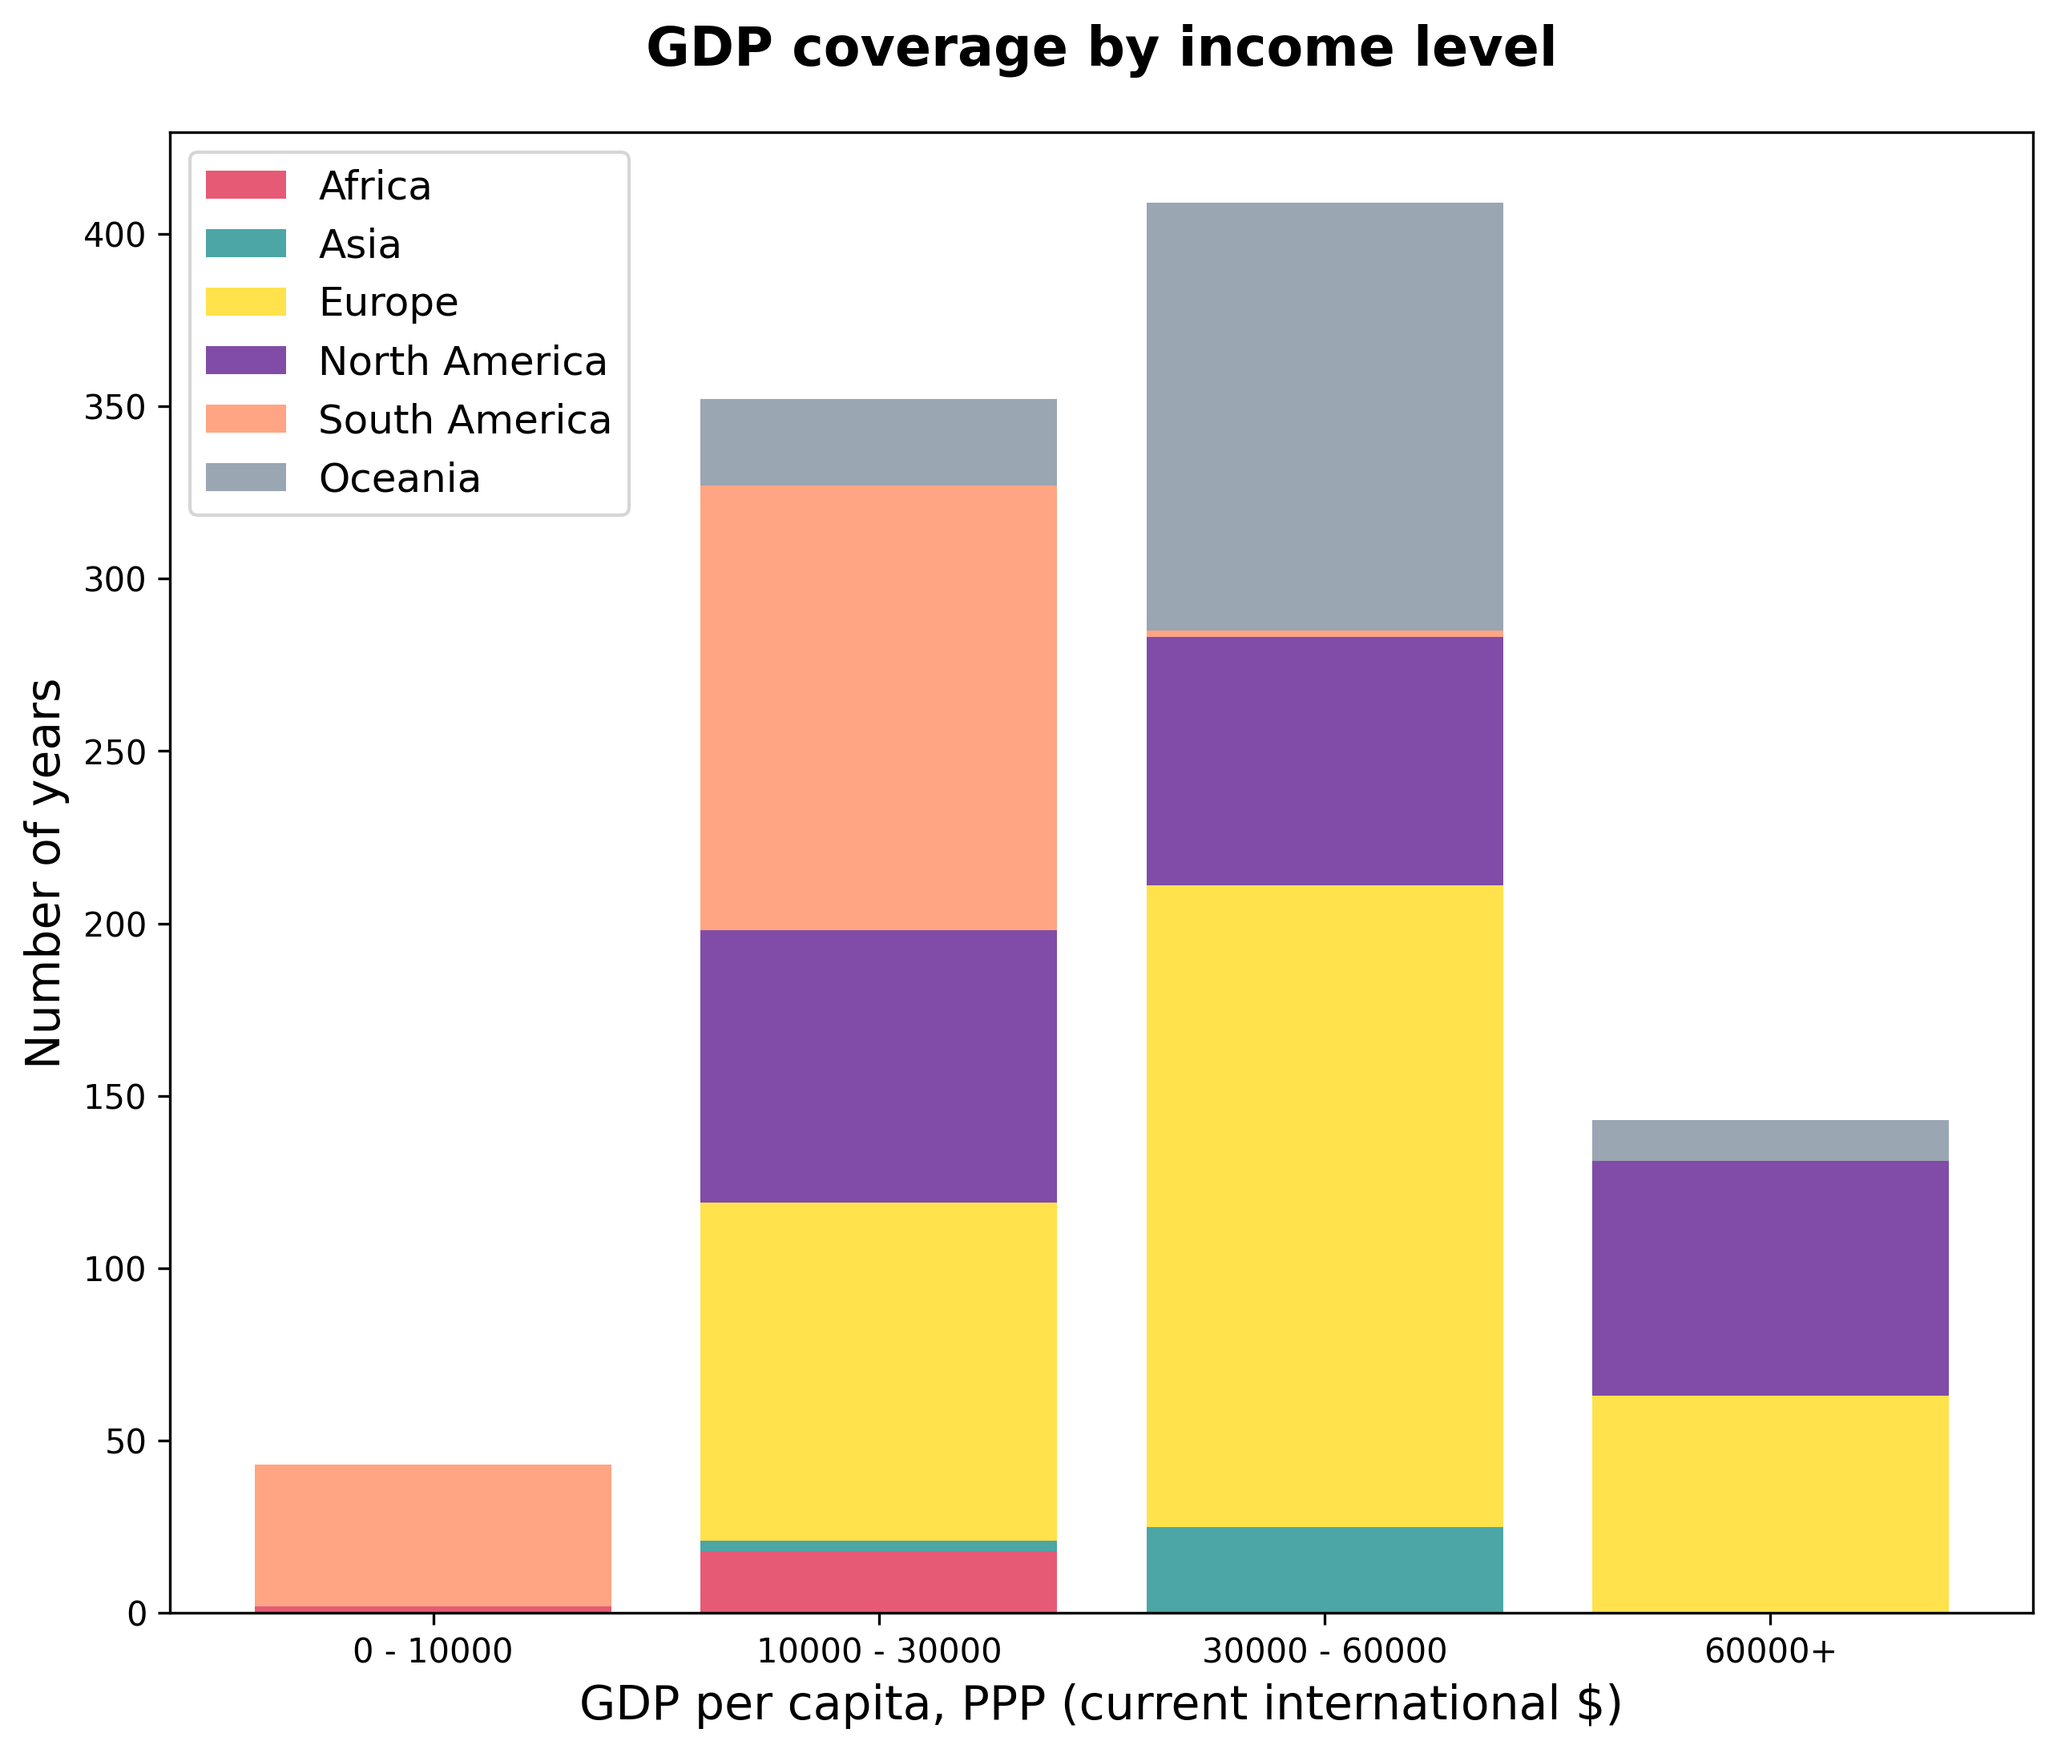
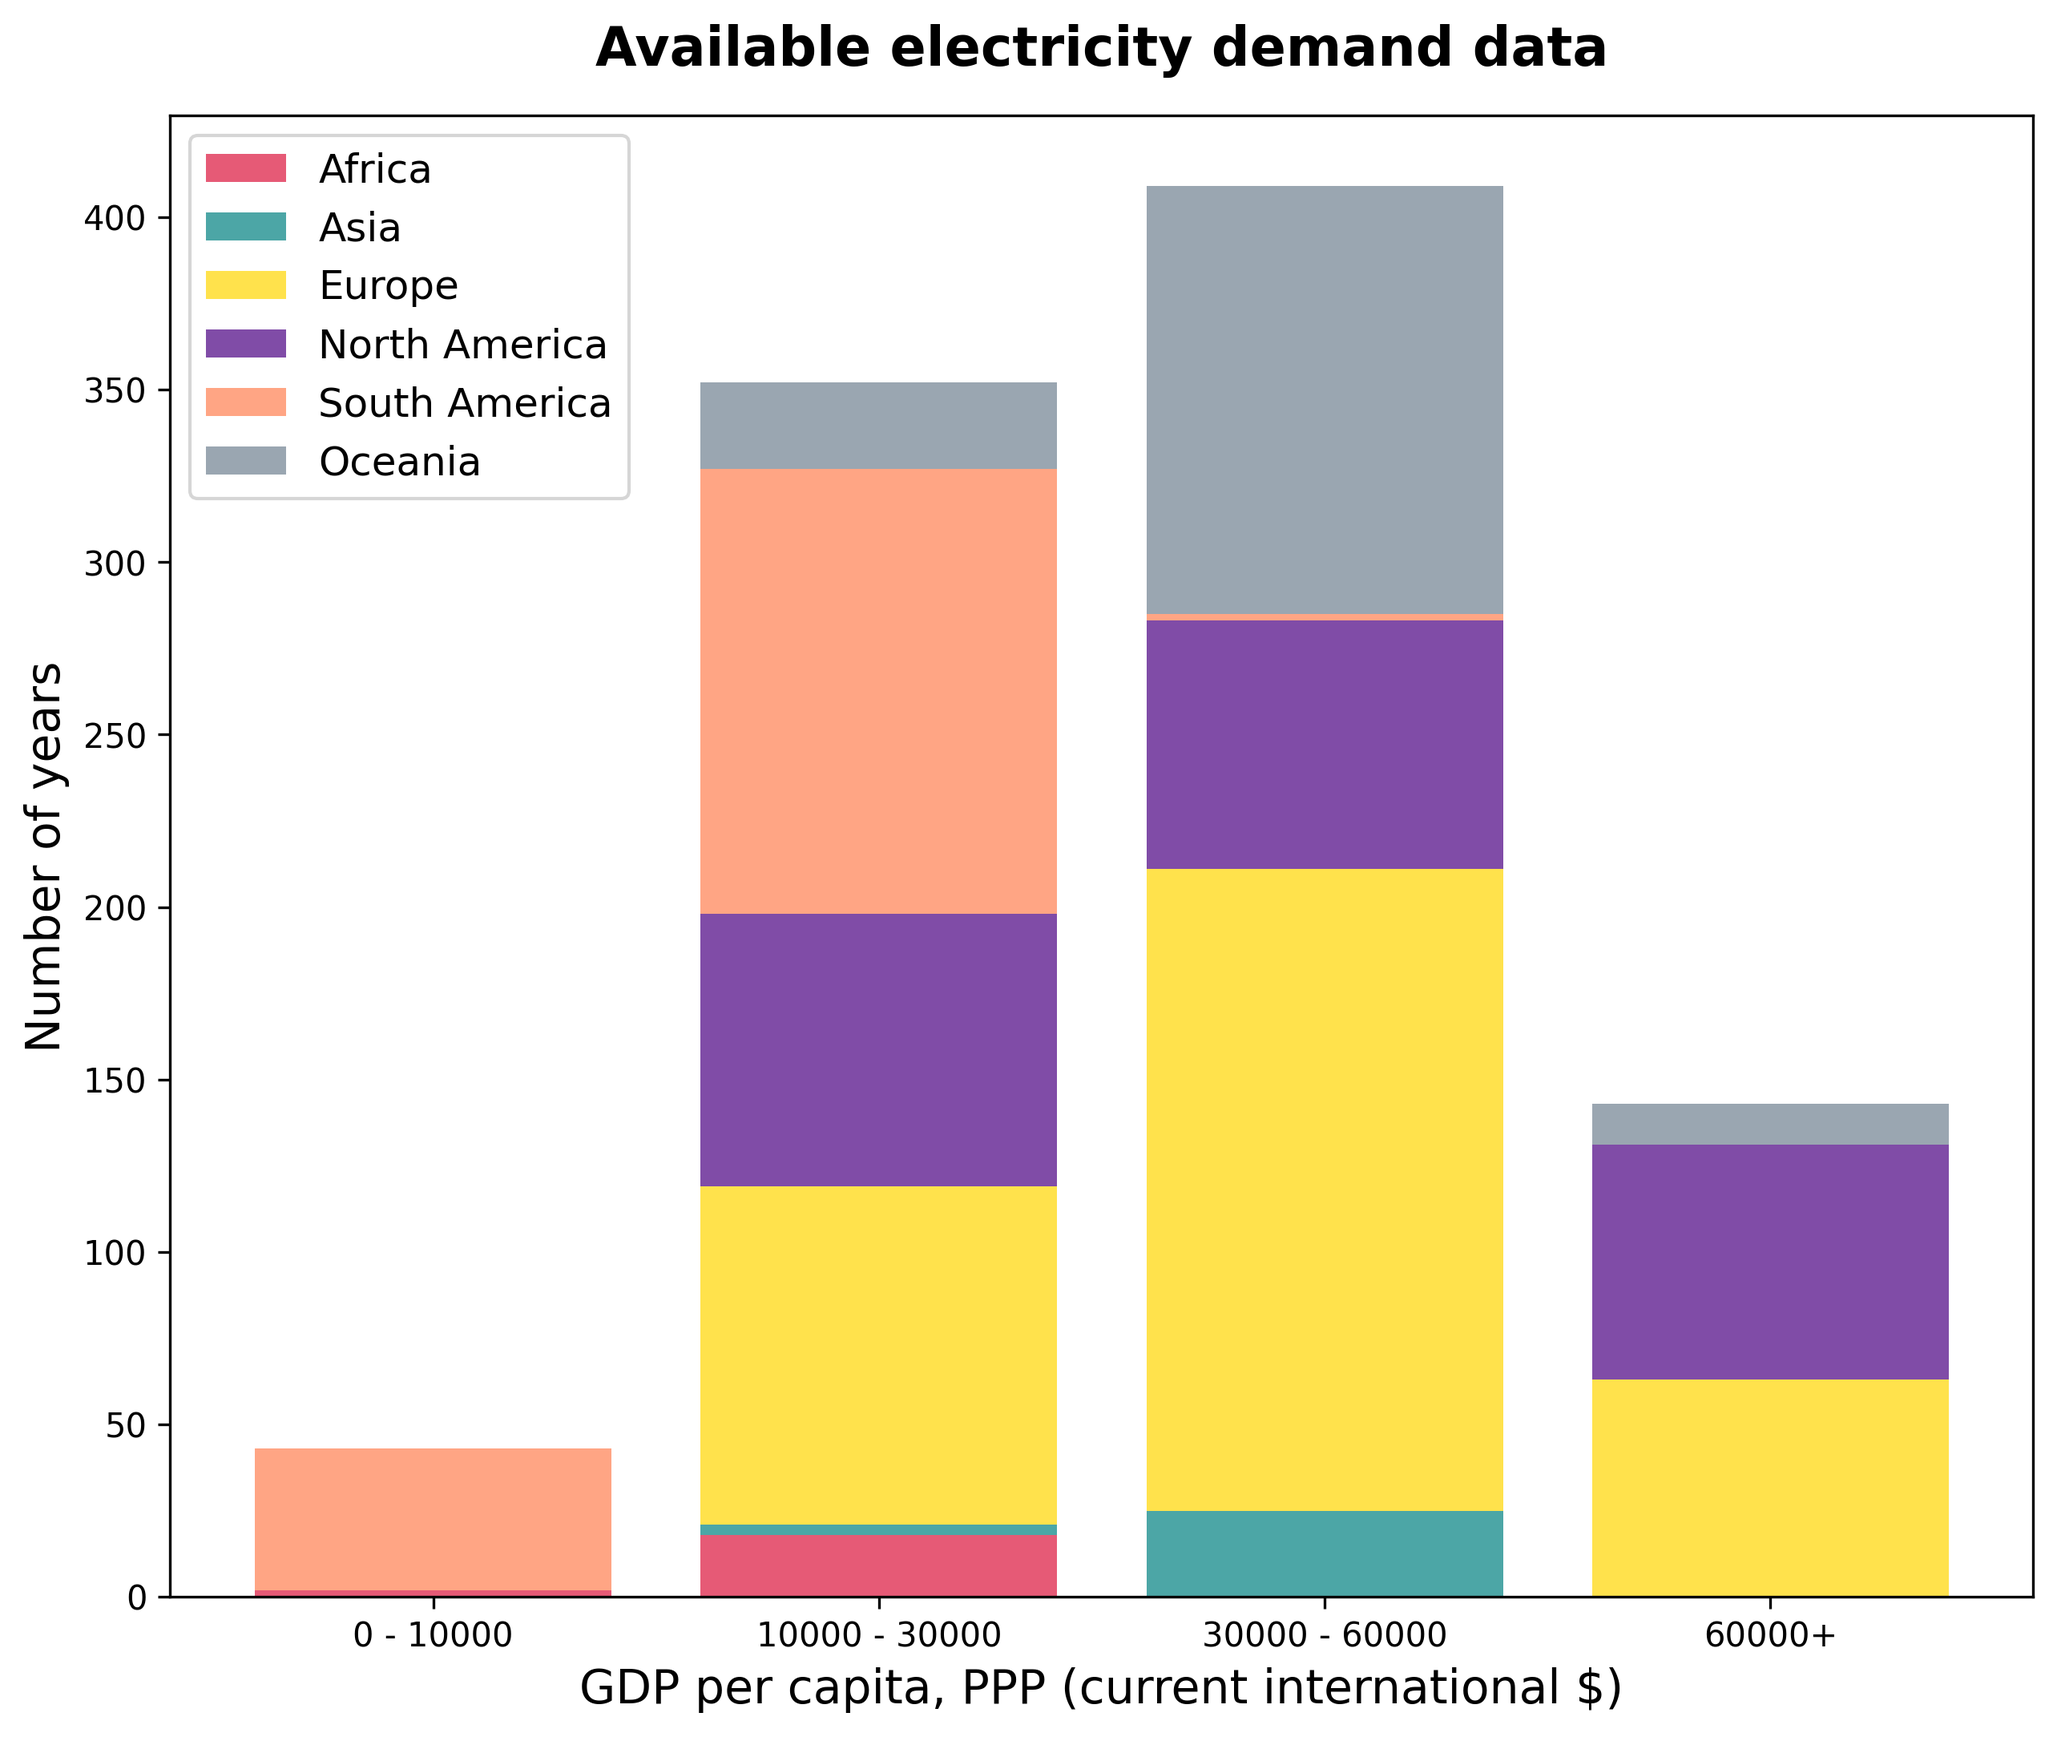
Updated figure

diff --git a/ETL/draw_gdp_coverage.py b/ETL/draw_gdp_coverage.py
@@ -4,7 +4,7 @@ License: AGPL-3.0
 
 Description:
 
-    This script generates a bar plot showing the coverage of GDP data by income level and continent.
+    This script generates a bar plot showing the years of available electricity demand data falling into different GDP per capita levels, grouped by continent.
 
     It fetches GDP per capita data from the World Bank, categorizes it into income levels, and plots the number of years in which each country or subdivision falls into these income levels, grouped by continent.
 
@@ -142,7 +142,7 @@ for continent_code in gdp_occurrence.keys():
 ax.set_ylim(0, max(cumulative_height) * 1.05)
 
 # Set the title and labels.
-ax.set_title("GDP coverage by income level", fontsize=16, fontweight="bold", pad=20)
+ax.set_title("Available electricity demand data", fontsize=16, pad=15, weight="bold")
 ax.set_xlabel("GDP per capita, PPP (current international $)", fontsize=14)
 ax.set_ylabel("Number of years", fontsize=14)
 ax.set_xticklabels(
